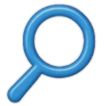
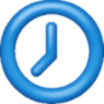
place holder pic added

diff --git a/spotidados/src/app/TestWindow/page.tsx b/spotidados/src/app/TestWindow/page.tsx
@@ -7,13 +7,18 @@ import { Rnd } from "react-rnd";
 import { useRouter } from "next/navigation";
 import Top100 from "@/components/Pages/Top100";
 import ArtistStats from "@/components/ArtistStats";
+import ValorTotalDeMins from "@/components/ValorTotalDeMins";
+import HorasAvgDaily from "@/components/HorasAvgDaily";
 
 const icons = [
   { name: "Home", src: "/iconCasa.png" },
-  { name: "Search", src: "/iconLupa.png" },
+
+  { name: "Daily Average", src: "/iconLupa.png" },
 
   { name: "Top100", src: "/iconBarras.png" },
+
   { name: "Stats", src: "/iconStats.png" },
+
   { name: "Settings", src: "/iconGear.png" },
 ];
 
@@ -135,6 +140,10 @@ export default function Page() {
 
           {name === "ArtistStats" ? (
             <ArtistStats artistName={artist} />
+          ) : undefined}
+
+          {name === "Daily Average" ? (
+            <HorasAvgDaily/>
           ) : undefined}
 
         </AnimatedWindow>

diff --git a/spotidados/src/components/AlbumCards.tsx b/spotidados/src/components/AlbumCards.tsx
@@ -18,8 +18,8 @@ export default function AlbumCards({ color, num, nameArtist ,albumName, views, s
       <div className="w-[80px] flex-shrink-0">
         <img
           className="w-[70px] h-[70px] object-cover rounded-full"
-          src="https://upload.wikimedia.org/wikipedia/en/8/89/Michael_jackson_thriller_12_inch_single_USA.jpg"
-          alt="Thriller"
+          src="/michealjakson.png"
+          alt="Artist"
         />
       </div>
       <div className="ml-2 flex-1 overflow-hidden relative h-[54px] flex flex-col justify-center">

diff --git a/spotidados/src/components/HorasAvgDaily.tsx b/spotidados/src/components/HorasAvgDaily.tsx
@@ -14,7 +14,7 @@ function getHourlyAverages(tracks) {
   const result = [];
   for (let hour = 0; hour < 24; hour++) {
     const msList = hourMap.get(hour) || [];
-    const avg = msList.length > 0 ? msList.reduce((a, b) => a + b, 0) / msList.length / 60000 : 0;
+    const avg = msList.length > 0 ? msList.reduce((a, b) => a + b, 0) / msList.length / 6000 : 0;
     result.push({
       hour: `${hour}:00`,
       avgMinutes: Number(avg.toFixed(2)),

diff --git a/spotidados/src/components/ArtistCards.tsx b/spotidados/src/components/ArtistCards.tsx
@@ -7,7 +7,7 @@ export default function ArtistCards({ color, num, nameArtist }: { color: string,
       <div className="w-[80px] flex-shrink-0">
         <img
           className="w-[70px] h-[70px] object-cover rounded-full"
-          src="https://upload.wikimedia.org/wikipedia/en/8/89/Michael_jackson_thriller_12_inch_single_USA.jpg"
+          src="/michealjakson.png"
           alt="Thriller"
         />
       </div>

diff --git a/spotidados/src/components/SongCards.tsx b/spotidados/src/components/SongCards.tsx
@@ -30,7 +30,7 @@ export default function SongCards({
       <div className="w-[80px] flex-shrink-0">
         <img
           className="w-[70px] h-[60px] object-cover rounded-full"
-          src="https://upload.wikimedia.org/wikipedia/en/8/89/Michael_jackson_thriller_12_inch_single_USA.jpg"
+          src="/michealjakson.png"
           alt="Thriller"
         />
       </div>
